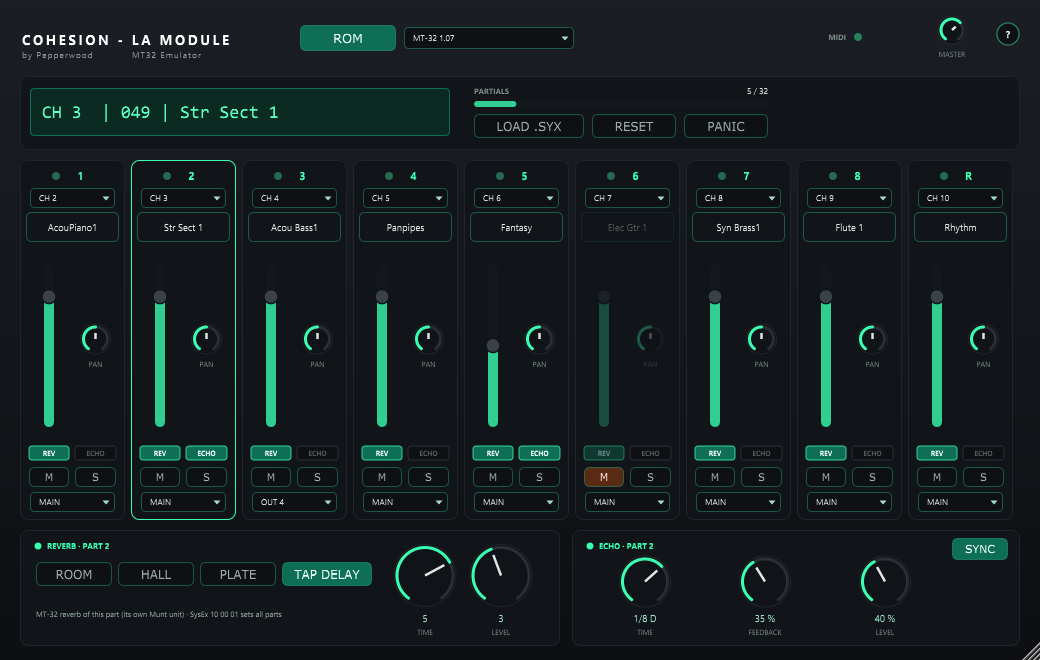
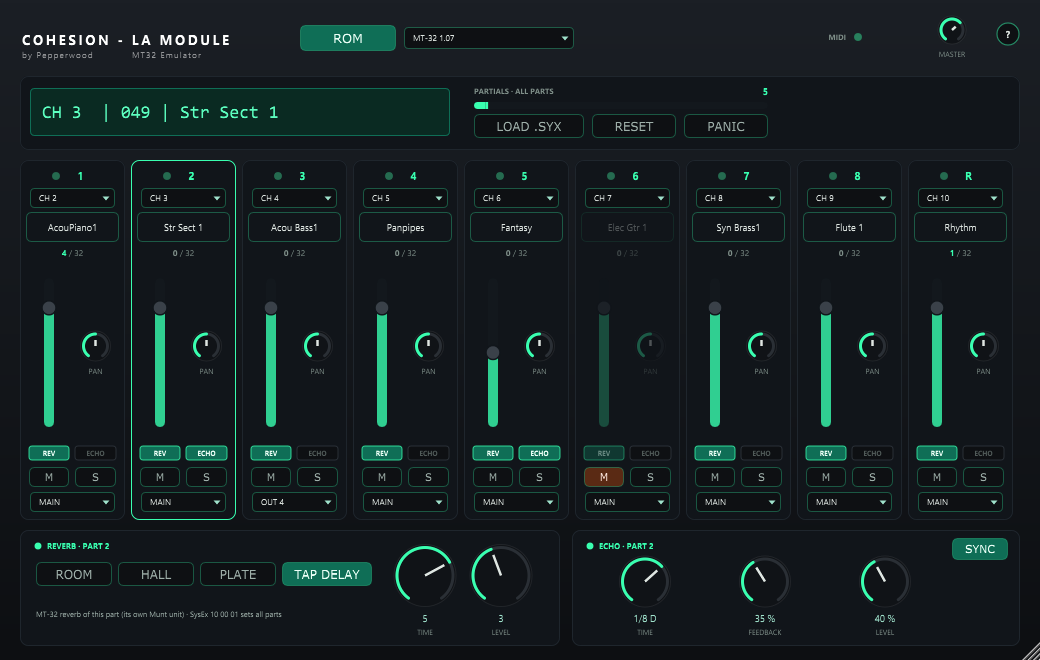
LA Module: partial meters per part and in total; installer 1.2.1
- each strip shows its part's partials "n / 32" (its own Munt unit; orange
  from 28), centred under the part name
- the LCD row shows the total of all parts with a bar split by part
  (scaled to 96 partials)
- ModuleTest checks per-part and total counts; README and screenshot updated

diff --git a/Cohesion-LaModule/Source/PluginEditor.cpp b/Cohesion-LaModule/Source/PluginEditor.cpp
@@ -59,7 +59,9 @@ void PartStrip::resized()
     chBox.setBounds (r.removeFromTop (20).reduced (4, 0));
     r.removeFromTop (4);
     nameBtn.setBounds (r.removeFromTop (30));
-    r.removeFromTop (10);
+    r.removeFromTop (3);
+    partialsArea = r.removeFromTop (15);                       // "n / 32" (painted)
+    r.removeFromTop (6);
     auto out = r.removeFromBottom (20); outBox.setBounds (out.reduced (4, 0));
     r.removeFromBottom (5);
     auto ms = r.removeFromBottom (20);
@@ -79,6 +81,16 @@ void PartStrip::paint (juce::Graphics& g)
     auto r = getLocalBounds().reduced (6, 8);
     g.setColour (ui::teal); g.setFont (ui::font (14.0f, true));
     g.drawText (idx < 8 ? juce::String (idx + 1) : juce::String ("R"), r.removeFromTop (16).withTrimmedLeft (16), juce::Justification::centred);
+
+    // this part's partials, of its own 32 (orange close to the limit)
+    {
+        const auto col = partials >= 28 ? juce::Colour (0xfff0997b) : partials > 0 ? ui::teal : ui::label;
+        juce::AttributedString a;
+        a.append (juce::String (partials), ui::font (11.0f, true), col.withAlpha (dimmed ? 0.4f : 1.0f));
+        a.append (" / 32", ui::font (11.0f), ui::label.withAlpha (dimmed ? 0.4f : 1.0f));
+        a.setJustification (juce::Justification::centred);
+        a.draw (g, partialsArea.toFloat());
+    }
 
     // this part's reverb / echo state (edited in the boxes below when the part is selected)
     auto f = fxArea;
@@ -113,6 +125,7 @@ void PartStrip::refresh (bool sel)
     nameBtn.setButtonText (proc.partName (idx));
     rvOn = a.getRawParameterValue (lpid::part (idx, "rv_on"))->load() > 0.5f;
     ecOn = a.getRawParameterValue (lpid::part (idx, "ec_on"))->load() > 0.5f;
+    partials = proc.partPartials (idx);
     led.level = juce::jmax (led.level * 0.82f, proc.takePartActivity (idx));
     led.repaint();
     repaint();
@@ -300,12 +313,26 @@ void LaModuleEditor::paintCanvas (juce::Graphics& g)
     // LCD panel
     panelBox (g, { 20.0f, 76.0f, 1000.0f, 74.0f });
     g.setColour (ui::label); g.setFont (ui::font (10.0f, true));
-    g.drawText ("PARTIALS", 474, 84, 100, 14, juce::Justification::centredLeft);
-    g.setColour (ui::text); g.setFont (ui::font (11.0f));
-    g.drawText (juce::String (partialCount) + " / 32", 668, 84, 100, 14, juce::Justification::centredRight);
-    auto bar = juce::Rectangle<float> (474.0f, 101.0f, 294.0f, 6.0f);
-    g.setColour (juce::Colour (0xff13181d)); g.fillRoundedRectangle (bar, 3.0f);
-    g.setColour (ui::teal.withAlpha (0.8f)); g.fillRoundedRectangle (bar.withWidth (bar.getWidth() * juce::jlimit (0.0f, 1.0f, partialFrac)), 3.0f);
+    g.drawText (juce::String::fromUTF8 ("PARTIALS \xc2\xb7 ALL PARTS"), 474, 84, 200, 14, juce::Justification::centredLeft);
+    g.setColour (partialCount > 0 ? ui::teal : ui::text); g.setFont (ui::font (12.0f, true));
+    g.drawText (juce::String (partialCount), 668, 83, 100, 16, juce::Justification::centredRight);
+    // bar: each part's share, scaled to 96 partials (three MT-32s' worth)
+    auto bar = juce::Rectangle<float> (474.0f, 102.0f, 294.0f, 7.0f);
+    g.setColour (juce::Colour (0xff13181d)); g.fillRoundedRectangle (bar, 3.5f);
+    {
+        juce::Graphics::ScopedSaveState ss (g);
+        juce::Path clip; clip.addRoundedRectangle (bar, 3.5f); g.reduceClipRegion (clip);
+        float x = bar.getX();
+        for (int p = 0; p < mt::kParts; ++p)
+        {
+            const float w = bar.getWidth() * partialShare[p] / 96.0f;
+            if (w <= 0.05f) continue;
+            g.setColour ((p & 1) ? juce::Colour (0xff2fd99a) : ui::teal);
+            g.fillRect (x, bar.getY(), juce::jmin (w, bar.getRight() - x), bar.getHeight());
+            x += w;
+            if (x >= bar.getRight()) break;
+        }
+    }
     g.setColour (ui::dim); g.setFont (ui::font (10.5f));
     g.drawFittedText (status, 790, 84, 222, 54, juce::Justification::centredLeft, 4);
 
@@ -397,6 +424,6 @@ void LaModuleEditor::timerCallback()
 {
     midiLed.level = juce::jmax (midiLed.level * 0.8f, proc.takeMidiActivity()); midiLed.repaint();
     partialCount = proc.activePartials();
-    partialFrac = partialFrac * 0.6f + 0.4f * (partialCount / 32.0f);
+    for (int p = 0; p < mt::kParts; ++p) partialShare[p] = partialShare[p] * 0.6f + 0.4f * (float) proc.partPartials (p);
     refreshAll();
 }

diff --git a/Cohesion-LaModule/tests/ModuleTest.cpp b/Cohesion-LaModule/tests/ModuleTest.cpp
@@ -178,6 +178,21 @@ int main (int argc, char** argv)
             check (p.partProgram (0) == 48 && p.partName (0) == p.currentRom()->melodic[48].getName().trim(), "program change 49 on part 1", p.partName (0));
         }
 
+        // partial meters: per part (of its own 32) and the total of all parts
+        {
+            p.requestPanic(); run (p, {}, 2.0, nch);
+            juce::MidiBuffer m;
+            for (int k : { 60, 64, 67 }) m.addEvent (juce::MidiMessage::noteOn (2, k, (juce::uint8) 100), 0);
+            m.addEvent (juce::MidiMessage::noteOn (3, 72, (juce::uint8) 100), 0);
+            run (p, m, 0.4, nch);
+            const int a1 = p.partPartials (0), a2 = p.partPartials (1), a3 = p.partPartials (2);
+            int sum = 0; for (int q = 0; q < mt::kParts; ++q) sum += p.partPartials (q);
+            check (a1 >= 3 && a2 >= 1 && a3 == 0 && p.activePartials() == sum, "partials per part and total",
+                   "part1 " + juce::String (a1) + "  part2 " + juce::String (a2) + "  total " + juce::String (p.activePartials()));
+            juce::MidiBuffer off; off.addEvent (juce::MidiMessage::allNotesOff (2), 0); off.addEvent (juce::MidiMessage::allNotesOff (3), 0);
+            run (p, off, 0.1, nch);
+        }
+
         // per-part reverb / echo: tails of part 1 with its switches, part 2 unaffected
         auto tailDb = [&] (int part)
         {
@@ -197,7 +212,7 @@ int main (int argc, char** argv)
         setParam (p, lpid::part (0, "ec_on"), 0.0f);
         const double none = tailDb (0);
         const double other = tailDb (1);
-        check (withEcho >= rvOnly - 0.5 && echoOnly > none + 20.0 && rvOnly > none + 20.0, "part 1 reverb / echo switches work",
+        check (withEcho >= rvOnly - 0.5 && echoOnly > none + 15.0 && rvOnly > none + 15.0, "part 1 reverb / echo switches work",
                "rev " + juce::String (rvOnly, 1) + " / +echo " + juce::String (withEcho, 1) + " / echo " + juce::String (echoOnly, 1) + " / none " + juce::String (none, 1) + " dB");
         check (other > none + 20.0, "part 2 keeps its own reverb", juce::String (other, 1) + " dB");
         setParam (p, lpid::part (0, "rv_on"), 1.0f);

diff --git a/Cohesion-LaModule/Source/MuntEngine.h b/Cohesion-LaModule/Source/MuntEngine.h
@@ -227,17 +227,22 @@ public:
         if (opened && (++meterTick & 7) == 0)
         {
             int c = 0; uint8_t st[64];
-            for (auto& in : inst)
+            for (int k = 0; k < mt::kParts; ++k)
             {
+                auto& in = inst[k];
                 const int np = (int) juce::jmin (256u, munt::Lib::get().partialCount (in.ctx));
                 munt::Lib::get().partialStates (in.ctx, st);
-                for (int i = 0; i < np; ++i) if ((st[i >> 2] >> ((i & 3) * 2)) & 3) ++c;
+                int pc = 0;
+                for (int i = 0; i < np; ++i) if ((st[i >> 2] >> ((i & 3) * 2)) & 3) ++pc;
+                partCount[k].store (pc, std::memory_order_relaxed);
+                c += pc;
             }
             active.store (c, std::memory_order_relaxed);
         }
     }
 
     int activePartials() const override { return active.load (std::memory_order_relaxed); }
+    int partPartials (int part) const { return part >= 0 && part < mt::kParts ? partCount[part].load (std::memory_order_relaxed) : 0; }
 
 private:
     static constexpr double kLatency = 128.0;   // Munt samples (4 ms): keeps event timing inside a block
@@ -246,6 +251,7 @@ private:
     double sr = 44100.0;
     int meterTick = 0;
     std::atomic<int> active { 0 };
+    std::atomic<int> partCount[mt::kParts] {};
 
     uint32_t stamp (const munt::Instance& in, int offset) const
     {

diff --git a/Cohesion-LaModule/Source/PluginEditor.h b/Cohesion-LaModule/Source/PluginEditor.h
@@ -177,6 +177,8 @@ struct PartStrip : juce::Component
     juce::TextButton muteBtn { "M" }, soloBtn { "S" };
     std::unique_ptr<ButtonAtt> muteAtt, soloAtt;
     bool selected = false, dimmed = false, rvOn = true, ecOn = false;
+    int partials = 0;
+    juce::Rectangle<int> partialsArea;
     juce::Rectangle<int> fxArea;
 };
 
@@ -238,7 +240,8 @@ private:
     HelpOverlay help;
 
     Lcd lcd;
-    float partialFrac = 0.0f; int partialCount = 0;
+    int partialCount = 0;
+    float partialShare[mt::kParts] {};          // smoothed per-part share of the bar
     juce::TextButton loadBtn { "LOAD .SYX" }, resetBtn { "RESET" }, panicBtn { "PANIC" };
     juce::String status;
 

diff --git a/Cohesion-LaModule/Source/PluginProcessor.h b/Cohesion-LaModule/Source/PluginProcessor.h
@@ -54,7 +54,8 @@ public:
 
     juce::String partName (int part) const { return mem.partName (part); }
     int partProgram (int part) const { return mem.program[juce::jlimit (0, 8, part)]; }
-    int activePartials() const { return partials.load(); }
+    int activePartials() const { return munt.isOpen() ? munt.activePartials() : 0; }              // all parts
+    int partPartials (int part) const { return munt.isOpen() ? munt.partPartials (part) : 0; }      // one part (of its own 32)
     float takePartActivity (int part) { return activity[part].exchange (0.0f); }
     float takeMidiActivity()          { return midiActivity.exchange (0.0f); }
 

diff --git a/Cohesion-LaModule/README.md b/Cohesion-LaModule/README.md
@@ -23,8 +23,10 @@ which gives each part its own output and its own reverb (each part has 32 partia
 - **Parts 1–8 + rhythm** on MIDI channels 2–9 and 10 by default; each part's channel is
   selectable (OFF / 1–16). Program changes, controllers and **MT-32 SysEx** (timbres, patches,
   rhythm setup, system area, reset) as on the hardware. **LOAD .SYX** sends a SysEx file.
-- **LCD** `CH | program | name` of the selected part, partial meter, RESET and PANIC. A click on
-  a part's name picks a timbre from group A / B.
+- **LCD** `CH | program | name` of the selected part, RESET and PANIC. A click on a part's name
+  picks a timbre from group A / B.
+- **Partials**: under each part name `n / 32` (the part's own Munt unit; orange near the limit),
+  and in the LCD row the total of all parts with a bar showing each part's share.
 - **Mixer** per part: level, pan, mute / solo (muted parts dim), output MAIN or the part's own
   stereo output (OUT 2–10, enable the extra outputs in the DAW).
 - **Reverb and echo per part**: the boxes at the bottom edit the selected part — MT-32 reverb
